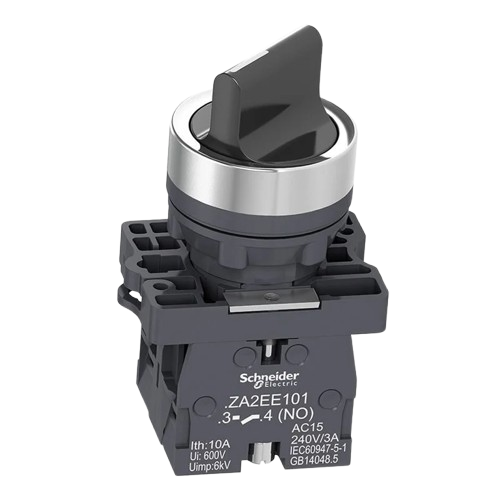
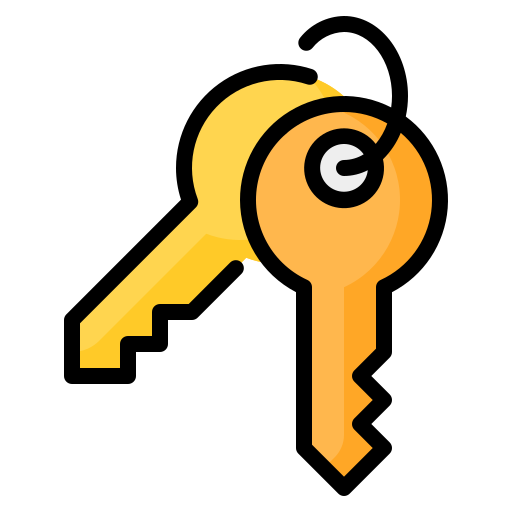
motorTF

diff --git a/pages/componentes/motorTF.html b/pages/componentes/motorTF.html
@@ -3,7 +3,7 @@
 <head>
     <meta charset="UTF-8">
     <meta name="viewport" content="width=device-width, initial-scale=1.0">
-    <link rel="shortcut icon" href="../../img/chave/icon_cm.png" type="image/x-icon">
+    <link rel="shortcut icon" href="../../img/logo_icon/motorTriFase.png" type="image/x-icon">
     <link href="https://cdn.jsdelivr.net/npm/bootstrap@5.3.7/dist/css/bootstrap.min.css" rel="stylesheet">
     <link rel="stylesheet" href="../../css/style.css">
     <title>Motor Elétrico Trifásico</title>
@@ -67,7 +67,7 @@
     <!-- NOME -->
      <div class="name">
         <h1>Motor Elétrico Trifásico</h1>
-        <p>Lorem ipsum dolor, sit amet consectetur adipisicing elit. Cupiditate, vitae.</p>
+        <p>Máquina que transforma energia elétrica em energia mecânica por meio de corrente alternada (CA).</p>
      </div>
 
      <!-- CAROUSEL -->
@@ -126,14 +126,14 @@
     <h2>Conceito e Aplicação</h2>
 
     <p>
-        Lorem ipsum dolor sit amet consectetur adipisicing elit. Dicta fugit labore voluptate culpa aperiam quis. Unde incidunt odio expedita fugit quod fuga architecto, totam mollitia magnam provident, aut maxime voluptas aliquid nemo sapiente molestias distinctio libero qui accusamus amet at?
+        O motor elétrico trifásico é um equipamento responsável por transformar energia elétrica trifásica em energia mecânica, sendo amplamente utilizado em aplicações industriais. É utilizado em máquinas industriais, bombas, ventiladores, compressores e sistemas automatizados, oferecendo alto desempenho, eficiência e funcionamento contínuo.
     </p>
 </div>
 <div class="notation">
     <ul>
-        <li>Comando manual de equipamentos industriais;</li>
-        <li>Seleção de funções e modos de operação;</li>
-        <li>Aplicação em sistemas elétricos e automação;</li>
+        <li>Transforma energia elétrica em energia mecânica;</li>
+        <li>Utilizado em máquinas e equipamentos industriais;</li>
+        <li>Possui alto desempenho e eficiência operacional;</li>
     </ul>
 </div>
 
@@ -158,10 +158,10 @@
                     <h5 class="card-title">Funcionamento</h5>
 
                     <p class="card-text">
-                        Lorem ipsum dolor sit amet consectetur.
+                        Converte energia elétrica trifásica em movimento mecânico.
                     </p>
 
-                    <a href="#" target="_blank" class="btn btn-dark">
+                    <a href="https://www.mundodaeletrica.com.br/motor-trifasico-como-funciona-e-qual-sua-aplicacao/" target="_blank" class="btn btn-dark">
                         Saiba Mais
                     </a>
                 </div>
@@ -181,10 +181,10 @@
                     <h5 class="card-title">Aplicações</h5>
 
                     <p class="card-text">
-                        Lorem ipsum dolor sit amet consectetur.
+                        Aplicado em máquinas, bombas e sistemas industriais.
                     </p>
 
-                    <a href="#" target="_blank" class="btn btn-dark">
+                    <a href="https://www.youtube.com/watch?v=1NgAVpqNHCk" target="_blank" class="btn btn-dark">
                         Saiba Mais
                     </a>
                 </div>
@@ -204,10 +204,10 @@
                     <h5 class="card-title">Vantagens</h5>
 
                     <p class="card-text">
-                        Lorem ipsum dolor sit amet.
+                        Oferece alto desempenho e eficiência energética industrial.
                     </p>
 
-                    <a href="#" target="_blank" class="btn btn-dark">
+                    <a href="https://alugagera.com.br/noticias/o-que-e-motor-trifasico-vantagens" target="_blank" class="btn btn-dark">
                         Saiba Mais
                     </a>
                 </div>
@@ -224,7 +224,7 @@
   <h2>Empresas</h2>
 
   <p>
-    As principais empresas que fabricam chaves manopla são referências no setor de automação e comandos elétricos industriais. Em 2025, diversas marcas se destacam pela qualidade, segurança e confiabilidade de seus dispositivos de comando.
+    As principais empresas que fabricam motores elétricos trifásicos são referências globais no setor de automação e equipamentos industriais. Em 2025, diversas marcas se destacam pela eficiência, desempenho e confiabilidade de seus motores utilizados em aplicações industriais.
   </p>
 
 </div>
@@ -232,7 +232,7 @@
 <div class="objective">
 
   <p>
-    A WEG, a ABB e a Eaton são algumas das principais fabricantes de chaves manopla utilizadas em sistemas elétricos e automação industrial. Seus produtos são amplamente aplicados em painéis elétricos, máquinas e equipamentos industriais.
+    A WEG, a Siemens e a ABB são algumas das principais fabricantes de motores elétricos trifásicos utilizados em máquinas, sistemas automatizados e processos industriais.
   </p>
 
  
@@ -240,25 +240,25 @@
 
 <div class="objective link_empresa">
   <p>
-    <a href="https://www.weg.net/catalog/weg/BR/pt/Automa%C3%A7%C3%A3o-e-Controle-Industrial/Controls/Acess%C3%B3rios-para-Controls/Acess%C3%B3rios-para-Disjuntores-em-Caixa-Moldada/Acess%C3%B3rios-Externos/Manoplas/c/BR_WDC_CTL_ACCES_DISJ_CM_MANOPLA" target="_blank">WEG</a>: Empresa brasileira reconhecida mundialmente pela fabricação de equipamentos elétricos e soluções para automação industrial. Suas chaves manopla se destacam pela durabilidade, segurança e aplicação em comandos industriais.
+    <a href="https://www.weg.net/catalog/weg/BR/pt/Motores-El%C3%A9tricos/Trif%C3%A1sico---Baixa-Tens%C3%A3o/Uso-Geral/W22/W22-/W22/p/MKT_WMO_TEXT_IMAGE_BR_MT_3PHASE_LV_TEFC_W22" target="_blank">WEG</a>: Empresa brasileira reconhecida mundialmente pela fabricação de motores elétricos e soluções industriais. Seus motores trifásicos se destacam pela eficiência energética, durabilidade e aplicação em diversos setores industriais.
   </p>
 </div>
 <div class="objective link_empresa">
   <p>
-    <a href="https://loja.br.abb.com/manopla-rotativa-para-fixacao-na-porta-do-painel-rhe-para-disjuntor-da-linha-formula-a3-utilizada-em-modelos-3p-e-4p-1sda066159r1-abb.html?srsltid=AfmBOoqySrI1kurL0VO1k_264nwbUBu7oTM_lHbhUI0iBDLsBp5zduOV" target="_blank">ABB</a>: Multinacional especializada em eletrificação e automação industrial. Desenvolve chaves manopla voltadas para controle e acionamento de circuitos elétricos, oferecendo alta confiabilidade e tecnologia aplicada à indústria.
+    <a href="https://www.siemens.com/pt-br/products/simotics/" target="_blank">SIEMENS</a>: Multinacional especializada em tecnologia e automação industrial. Desenvolve motores trifásicos de alta performance utilizados em sistemas industriais, máquinas e processos automatizados.
   </p>
 </div>
 <div class="objective link_empresa">
   <p>
-    <a href="https://www.eaton.com/br/pt-br/catalog/industrial-control--drives--automation---sensors/universal-handles.html" target="_blank">EATON</a>: Empresa global do setor elétrico que fabrica dispositivos de comando e proteção industrial. Suas chaves manopla são utilizadas em painéis elétricos e sistemas automatizados, destacando-se pela eficiência e segurança operacional.
+    <a href="https://loja.br.abb.com/produtos-industriais/automac-o-e-controle/motores-eletricos/4-polos.html?srsltid=AfmBOop72MWfq2p9rMqh_MX9w_euvwPKf4UdWSWbsxRKsyCcEbC8PJmQ" target="_blank">ABB</a>: Empresa global do setor de eletrificação e automação industrial. Fabrica motores elétricos trifásicos voltados para aplicações industriais, oferecendo alta eficiência, confiabilidade e tecnologia avançada.
   </p>
 </div>
 
  <div class="empresa_logo_desktop">
-    <img src="../../img/logo_icon/empresas_logos_btn_chaveM.svg" alt="">
+    <img src="../../img/motorTF/logos.svg" alt="">
   </div>
   <div class="empresa_logo_mobile">
-    <img src="../../img/logo_icon/mobile_empresas_logos_chaveM.svg" alt="">
+    <img src="../../img/motorTF/mobile_empresas_logos.svg" alt="">
   </div>
 
 